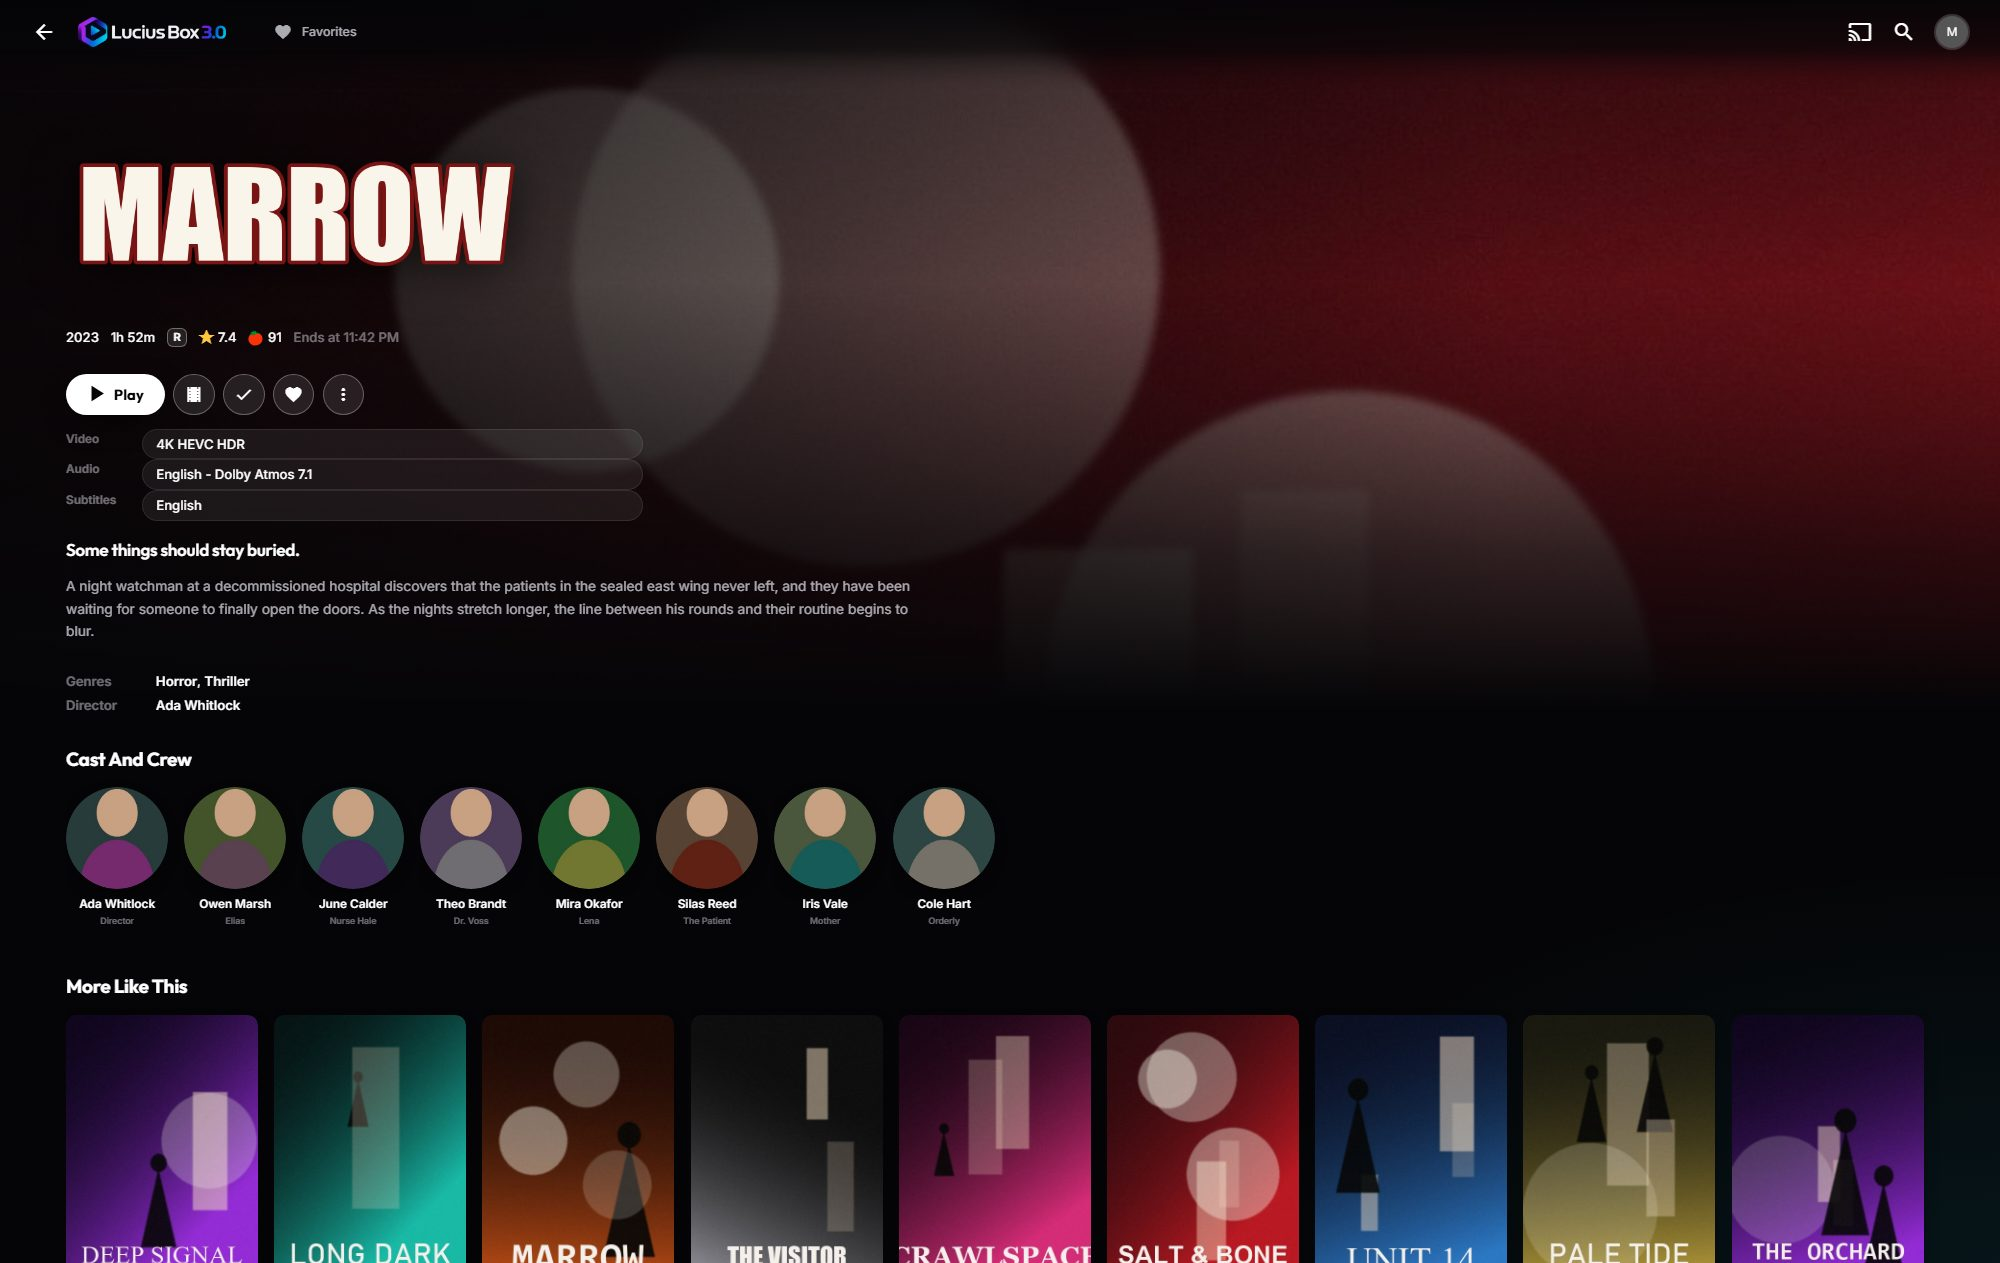
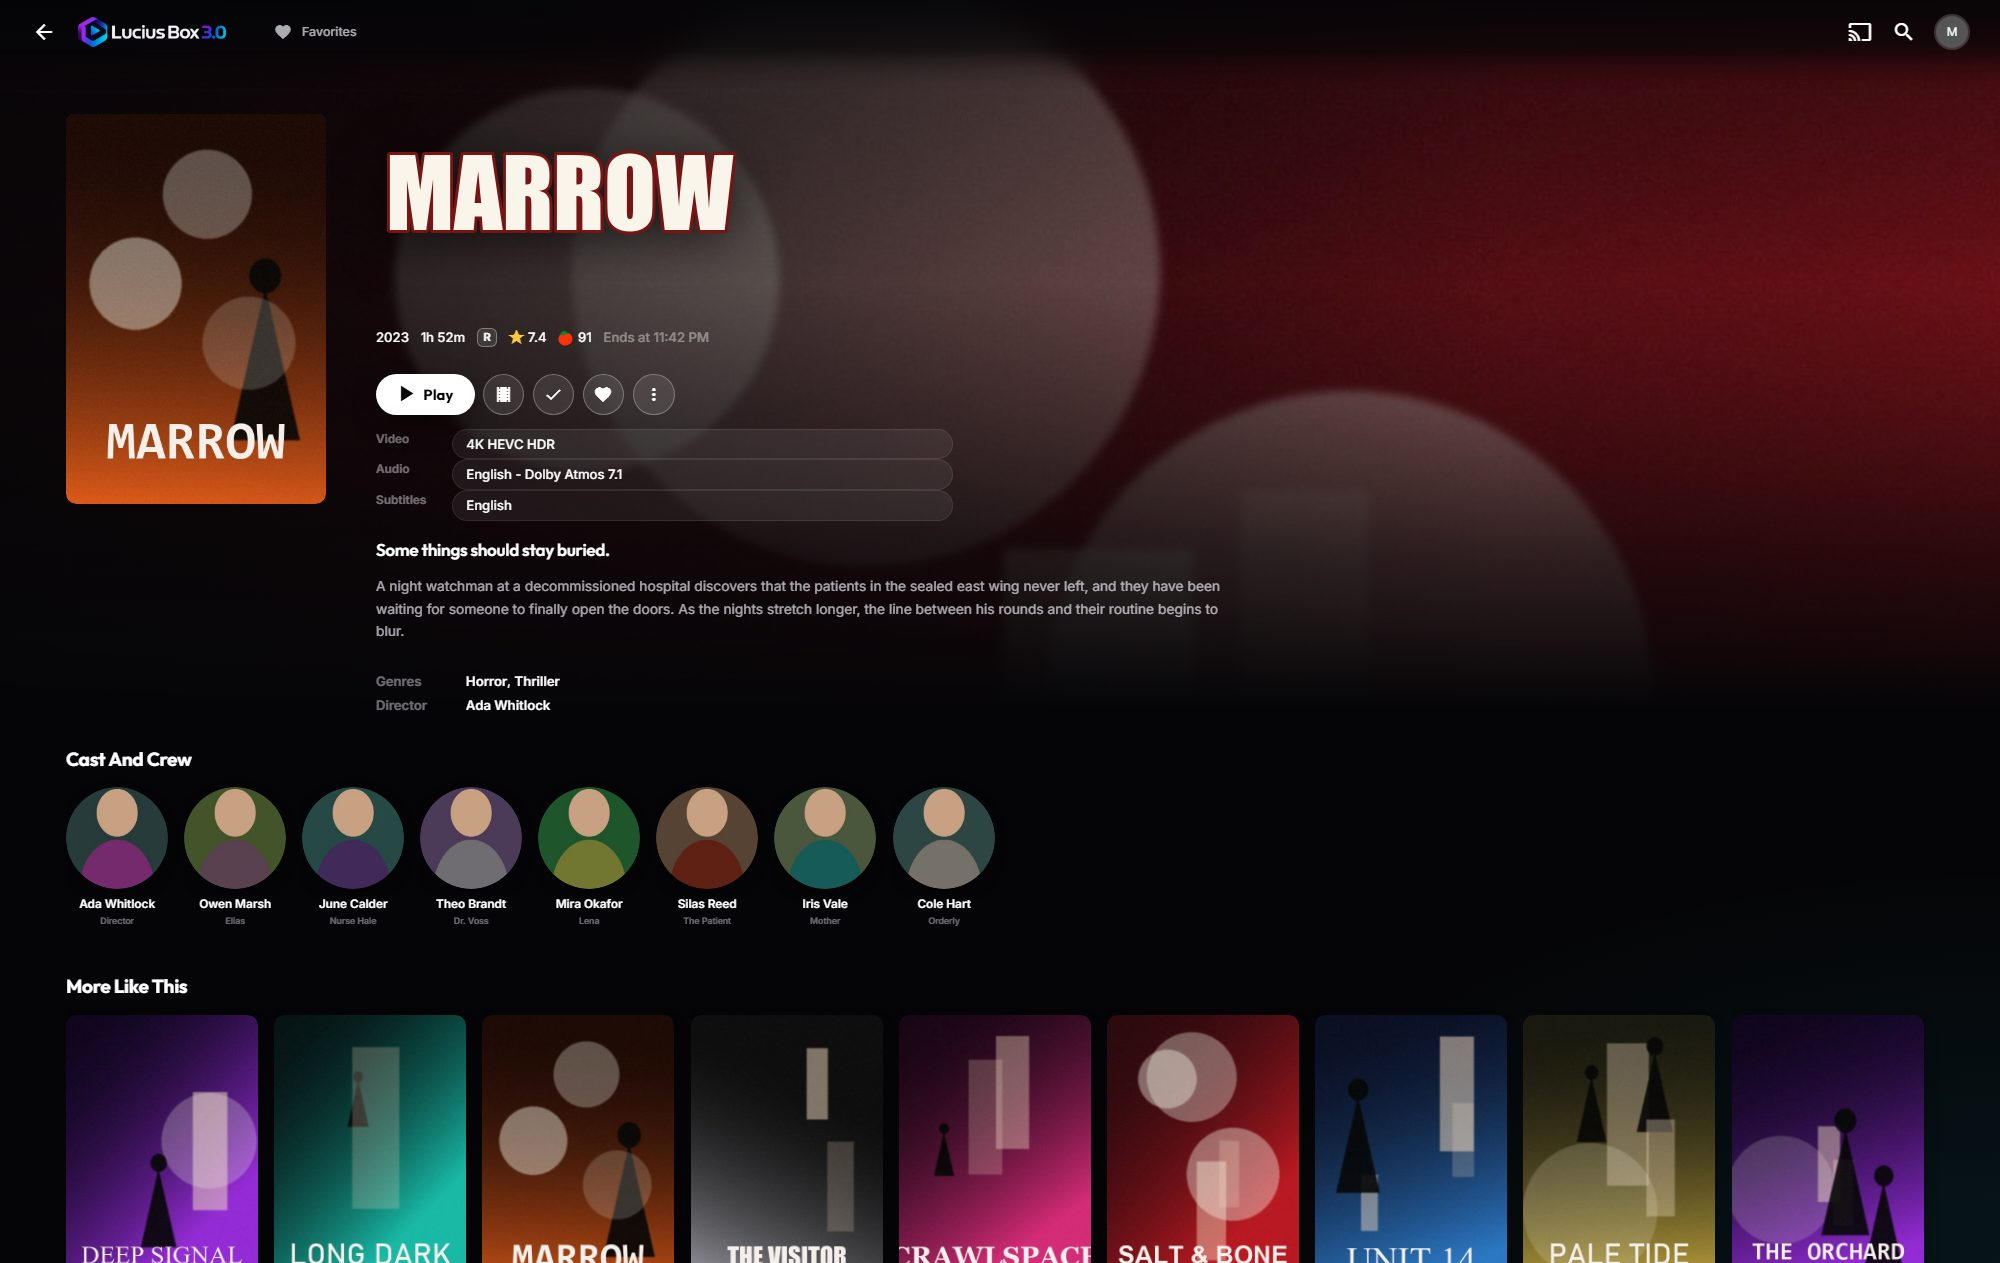
Bring back cover art beside the info on item pages
Poster sits on the left, its top level with the logo art; logo art is
capped so it can't take over tall windows.

diff --git a/dist/luciusbox.css b/dist/luciusbox.css
@@ -67,7 +67,8 @@ html:root[data-theme] {
     --lb-glow: 0 10px 40px -10px rgba(109, 76, 255, 0.65), 0 4px 24px -8px rgba(20, 208, 240, 0.5);
 
     /* Item pages: how far the title and text sit from the left (right of the poster) */
-    --lb-detail-indent: 3.3vw;
+    --lb-poster-width: clamp(170px, 13vw, 260px);
+    --lb-detail-indent: calc(3.3vw + var(--lb-poster-width) + 2.5vw);
 
     /* Logos, embedded once by build.py */
[1 lines of base64/hex data omitted]
@@ -811,16 +812,18 @@ a[data-role="button"]:hover {
     padding-top: 0.4em !important;
 }
 
-/* No poster on big screens: the backdrop is the picture, like a streaming app */
-.layout-desktop .detailPagePrimaryContainer > .detailImageContainer {
-    display: none !important;
+/* Cover art: beside the info, its top level with the logo art */
+.layout-desktop .detailImageContainer .card {
+    width: var(--lb-poster-width) !important;
+    top: -47vh !important;
+    margin-bottom: -47vh !important;
 }
 
 /* The movie's logo art (when it has one) sits just above the info */
 .layout-desktop .detailLogo {
     top: 9vh !important;
-    height: 15vh !important;
-    width: 28vw !important;
+    height: min(15vh, 150px) !important;
+    width: min(30vw, 520px) !important;
     left: var(--lb-detail-indent) !important;
     right: auto !important;
     background-position: left bottom !important;

diff --git a/src/luciusbox.css b/src/luciusbox.css
@@ -67,7 +67,8 @@ html:root[data-theme] {
     --lb-glow: 0 10px 40px -10px rgba(109, 76, 255, 0.65), 0 4px 24px -8px rgba(20, 208, 240, 0.5);
 
     /* Item pages: how far the title and text sit from the left (right of the poster) */
-    --lb-detail-indent: 3.3vw;
+    --lb-poster-width: clamp(170px, 13vw, 260px);
+    --lb-detail-indent: calc(3.3vw + var(--lb-poster-width) + 2.5vw);
 
     /* Logos, embedded once by build.py */
     --lb-logo: url("__LOGO__");
@@ -811,16 +812,18 @@ a[data-role="button"]:hover {
     padding-top: 0.4em !important;
 }
 
-/* No poster on big screens: the backdrop is the picture, like a streaming app */
-.layout-desktop .detailPagePrimaryContainer > .detailImageContainer {
-    display: none !important;
+/* Cover art: beside the info, its top level with the logo art */
+.layout-desktop .detailImageContainer .card {
+    width: var(--lb-poster-width) !important;
+    top: -47vh !important;
+    margin-bottom: -47vh !important;
 }
 
 /* The movie's logo art (when it has one) sits just above the info */
 .layout-desktop .detailLogo {
     top: 9vh !important;
-    height: 15vh !important;
-    width: 28vw !important;
+    height: min(15vh, 150px) !important;
+    width: min(30vw, 520px) !important;
     left: var(--lb-detail-indent) !important;
     right: auto !important;
     background-position: left bottom !important;
